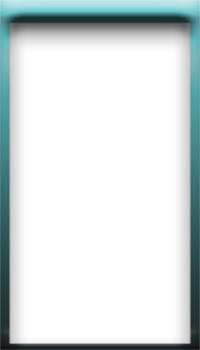
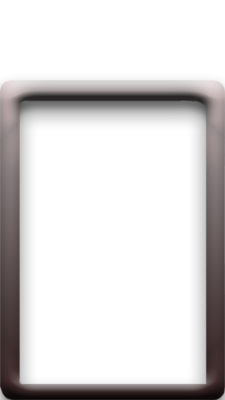
Imagenes más bonitas y botones invisibles en dicha sección.

diff --git a/ProyectoInicial/src/vista/PantallaHistoria.java b/ProyectoInicial/src/vista/PantallaHistoria.java
@@ -22,83 +22,93 @@ public class PantallaHistoria extends JPanel {
 		
 		
 		//Boton Decada 70
-		JButton button70 = new JButton("70's");
+		JButton button70 = new JButton(" ");
 		button70.addActionListener(new ActionListener() {
 			public void actionPerformed(ActionEvent arg0) {
 				PantallaPrincipal.ponerDecada70();
 			}
 		});
-		button70.setBounds(145, 140, 58, 23);
+		button70.setBounds(60,85,225,400);
+		button70.setContentAreaFilled(false);
+		button70.setBorderPainted(false);
 		add(button70);
 		
 		//Boton Decada 80
-		JButton button80 = new JButton("80's");
+		JButton button80 = new JButton(" ");
 		button80.addActionListener(new ActionListener() {
 			public void actionPerformed(ActionEvent arg0) {
 				PantallaPrincipal.ponerDecada80();
 			}
 		});
-		button80.setBounds(400, 140, 58, 23);
+		button80.setBounds(311,85,225,400);
+		button80.setContentAreaFilled(false);
+		button80.setBorderPainted(false);
 		add(button80);
 		
 		//Boton Decada 90
-		JButton button90 = new JButton("90's");
+		JButton button90 = new JButton(" ");
 		button90.addActionListener(new ActionListener() {
 			public void actionPerformed(ActionEvent arg0) {
 				PantallaPrincipal.ponerDecada90();
 			}
 		});
-		button90.setBounds(650, 140, 58, 23);
+		button90.setBounds(560,85,225,400);
+		button90.setContentAreaFilled(false);
+		button90.setBorderPainted(false);
 		add(button90);
 		
 		//Boton Decada 00's
-		JButton button00 = new JButton("00's");
+		JButton button00 = new JButton(" ");
 		button00.addActionListener(new ActionListener() {
 			public void actionPerformed(ActionEvent arg0) {
 				PantallaPrincipal.ponerDecada00();
 			}
 		});
-		button00.setBounds(900, 140, 58, 23);
+		button00.setBounds(810,85,225,400);
+		button00.setContentAreaFilled(false);
+		button00.setBorderPainted(false);
 		add(button00);
 		
 		//Boton Decada 10's
-		JButton button10 = new JButton("10's");
+		JButton button10 = new JButton(" ");
 		button10.addActionListener(new ActionListener() {
 			public void actionPerformed(ActionEvent arg0) {
 				PantallaPrincipal.ponerDecada10();
 			}
 		});
-		button10.setBounds(1150, 140, 58, 23);
+		button10.setBounds(1065,85,225,400);
+		button10.setContentAreaFilled(false);
+		button10.setBorderPainted(false);
 		add(button10);
 		
 		
 		Image marcoDecadas = new ImageIcon(this.getClass().getResource("/Marco.png")).getImage();
-		
-		JLabel lblMarco70 = new JLabel("/Marco.png");
-		lblMarco70.setBounds(75,200,200,350);
-		lblMarco70.setIcon(new ImageIcon(marcoDecadas));
+		Image marco70 = new ImageIcon(this.getClass().getResource("/Marco70.png")).getImage();
+		JLabel lblMarco70 = new JLabel("/Marco70.png");
+		lblMarco70.setBounds(60,85,225,400);
+		lblMarco70.setIcon(new ImageIcon(marco70));
 		this.add(lblMarco70);
 		
 		Image marco80 = new ImageIcon(this.getClass().getResource("/Marco80.png")).getImage();
 		JLabel lblMarco80 = new JLabel("/Marco80.png");
-		lblMarco80.setBounds(325,200,200,350);
+		lblMarco80.setBounds(311,85,225,400);
 		lblMarco80.setIcon(new ImageIcon(marco80));
 		this.add(lblMarco80);
 		
 		Image marco90 = new ImageIcon(this.getClass().getResource("/Marco90.png")).getImage();
 		JLabel lblMarco90 = new JLabel("/Marco90.png");
-		lblMarco90.setBounds(575,200,200,350);
+		lblMarco90.setBounds(560,85,225,400);
 		lblMarco90.setIcon(new ImageIcon(marco90));
 		this.add(lblMarco90);
 		
 		
 		JLabel lblMarco00 = new JLabel("/Marco.png");
-		lblMarco00.setBounds(825,200,200,350);
+		lblMarco00.setBounds(810,85,225,400);
 		lblMarco00.setIcon(new ImageIcon(marcoDecadas));
 		this.add(lblMarco00);
 
 		JLabel lblMarco10 = new JLabel("/Marco.png");
-		lblMarco10.setBounds(1075,200,200,350);
+		lblMarco10.setBounds(1065,85,225,400);
 		lblMarco10.setIcon(new ImageIcon(marcoDecadas));
 		this.add(lblMarco10);
 		
